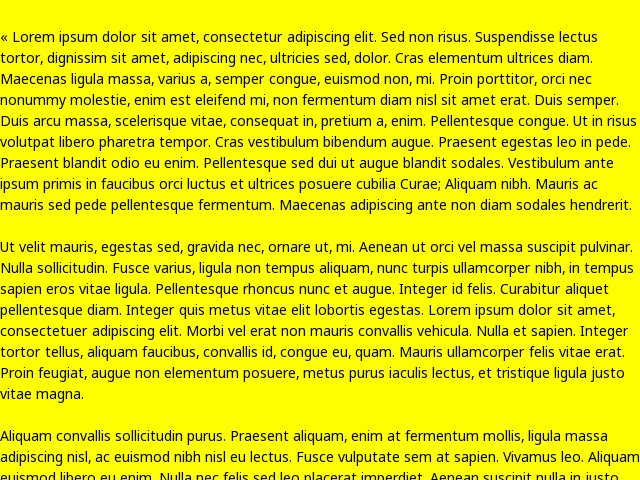
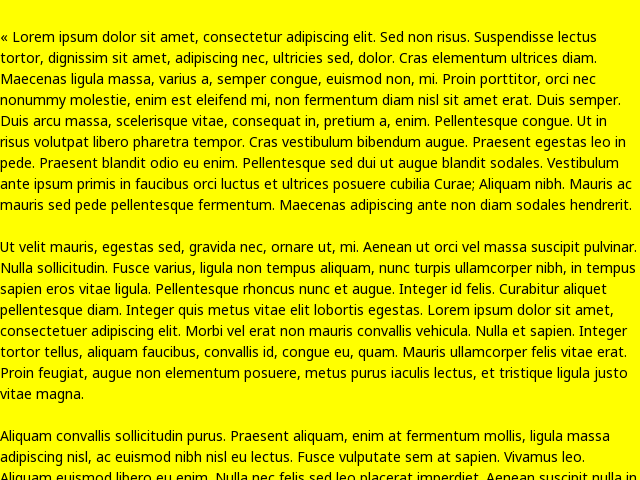
[videre] Make sure spaces are rendered with same sizes in both wrap chars and wrap words.

diff --git a/videre/core/fontfactory/pygame_text_rendering.py b/videre/core/fontfactory/pygame_text_rendering.py
@@ -19,7 +19,14 @@ from videre.core.fontfactory.pygame_font_factory import PygameFontFactory
 
 
 class FontSizes:
-    __slots__ = ("height_delta", "line_spacing", "ascender", "descender", "space_width")
+    __slots__ = (
+        "height_delta",
+        "line_spacing",
+        "ascender",
+        "descender",
+        "space_width",
+        "space_shift",
+    )
 
     def __init__(self, base_font: pygame.freetype.Font, size: int, height_delta=2):
         self.height_delta = height_delta
@@ -27,6 +34,9 @@ class FontSizes:
         self.ascender = abs(base_font.get_sized_ascender(size)) + 1
         self.descender = abs(base_font.get_sized_descender(size))
         self.space_width = base_font.get_rect(" ", size=size).width
+
+        (metric,) = base_font.get_metrics(" ", size=size)
+        self.space_shift = metric[4] if metric else self.space_width
 
 
 class RenderedText:
@@ -222,10 +232,12 @@ class PygameTextRendering:
         if width:
             (line,) = lines
             tasks = line.elements
+            last_char = tasks[-1]
+            shift = last_char.x + last_char.horizontal_shift
         else:
             tasks = []
-        horizontal_shift = width + self._font_sizes.space_width
-        return WordTask(width, 0, tasks, height, horizontal_shift)
+            shift = 0
+        return WordTask(width, 0, tasks, height, shift + self._font_sizes.space_shift)
 
 
 class TextElements[T](ABC):

diff --git a/videre_tests/antiroom/benchmark.py b/videre_tests/antiroom/benchmark.py
@@ -1,4 +1,3 @@
-import functools
 import sys
 
 from tqdm import trange
@@ -8,21 +7,22 @@ from pysaurus.core.constants import LOREM_IPSUM
 from pysaurus.core.perf_counter import PerfCounter
 from videre import Colors, Gradient
 from videre.core.fontfactory.pygame_font_factory import PygameFontFactory
+from videre.core.fontfactory.pygame_text_rendering import PygameTextRendering
 
 
 def stress_render_text(batch=200):
     height_delta = 2
     ff = PygameFontFactory(size=24)
+    tr = PygameTextRendering(ff, height_delta=height_delta)
+
     line_height = ff.font_height + height_delta
     assert line_height == 35
 
     text = LOREM_IPSUM
     print("Text length:", len(text), file=sys.stderr)
 
-    ff_render_text = functools.partial(ff.render_text, width=None, compact=True)
-
     for _ in trange(batch):
-        ff_render_text(text)
+        tr.render_text(text, None)
 
 
 def stress_gradient(batch=200):

diff --git a/videre_tests/antiroom/demo_animator_and_progressing.py b/videre_tests/antiroom/demo_animator_and_progressing.py
@@ -28,12 +28,6 @@ def main():
     aw = Animator(label, on_frame=on_label_frame)
     ap = Animator(pb, on_frame=on_pb_frame, fps=30)
     window.controls = [videre.Column([b1, b2, b3, br, bc, aw, ap, Progressing()])]
-    # print("b", b1.rendered_height)
-    # print("b:hello", b2.rendered_height)
-    # print("b:Hello", b3.rendered_height)
-    # print("radio", br.rendered_height)
-    # print("checkbox", br.rendered_height)
-    # print("standard", window.fonts.standard_size)
     window.run()
 
 

diff --git a/videre_tests/antiroom/demo.py b/videre_tests/antiroom/demo.py
@@ -51,7 +51,7 @@ def demo_button(window: Window):
                     "align none", on_click=Lambda[E.setattr(text, align=TextAlign.NONE)]
                 ),
                 # Zone(ScrollView(text, wrap_horizontal=True), 800, 300),
-                ScrollView(text, wrap_horizontal=False, weight=1),
+                ScrollView(text, wrap_horizontal=True, weight=1),
             ]
         )
     ]
